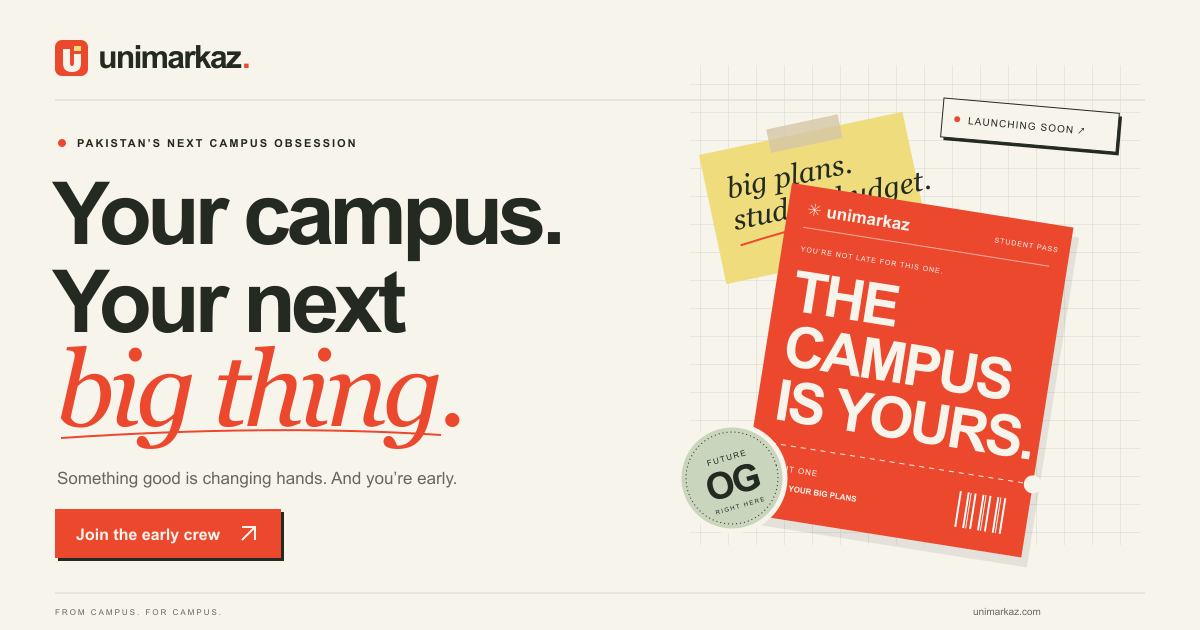
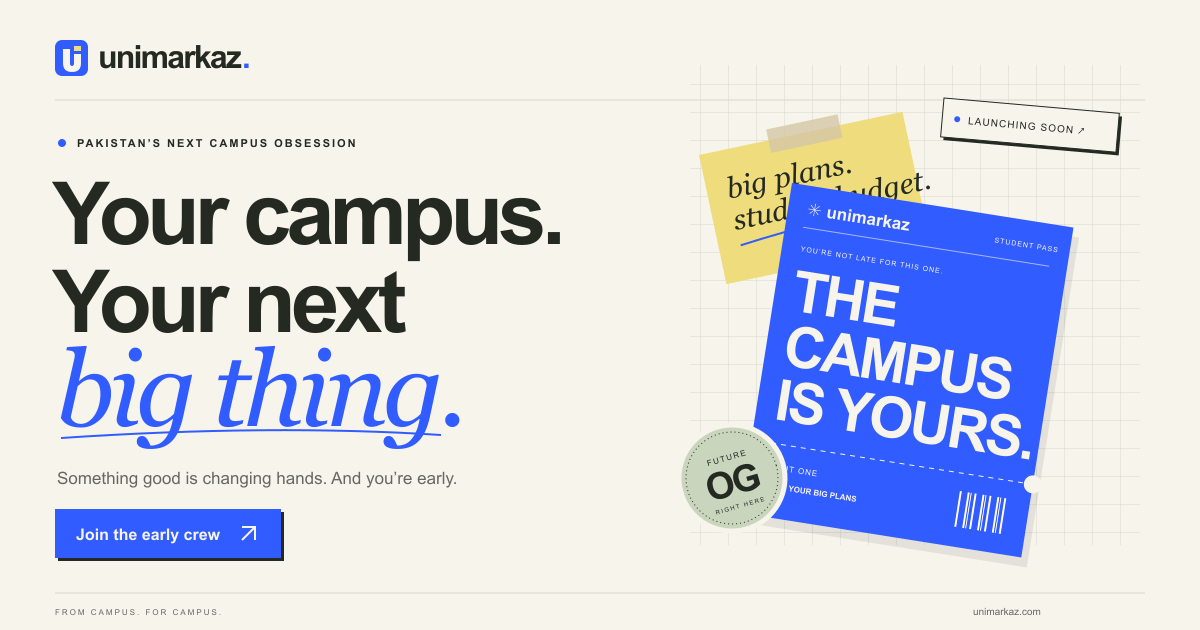
Wording easy for pak no seo

diff --git a/site/src/index.html b/site/src/index.html
@@ -10,9 +10,9 @@
   <meta property="og:type" content="website">
   <meta property="og:site_name" content="unimarkaz">
   <meta property="og:title" content="Your campus. Your next big thing. — unimarkaz">
-  <meta property="og:description" content="Something good is changing hands. Pakistan’s student marketplace is coming. Get in before the group chat finds out.">
+  <meta property="og:description" content="A place for students in Pakistan to buy, sell and find what they need. Join the list for early access.">
   <meta name="twitter:title" content="Your campus. Your next big thing. — unimarkaz">
-  <meta name="twitter:description" content="Big campus energy. Student-budget friendly. Join the unimarkaz early crew.">
+  <meta name="twitter:description" content="A student marketplace is coming to Pakistan. Sign up to hear when you can join.">
   {{CANONICAL}}{{SOCIAL_META}}
   <script type="application/ld+json">{{SCHEMA}}</script>
   <link rel="icon" type="image/svg+xml" href="/assets/favicon.svg">
@@ -32,18 +32,18 @@
   </svg>
   <header class="site-header wrap">
     <a class="wordmark" href="#top" aria-label="unimarkaz home"><span class="brand-icon" aria-hidden="true">u<span></span></span>unimarkaz<span class="brand-period">.</span></a>
-    <span class="header-note">LESS SCROLLING. MORE CAMPUS.</span>
-    <nav aria-label="Main navigation"><a class="nav-why" href="#why-early">Why get in early?</a><a class="nav-cta" href="#waitlist">Get early access <svg class="icon" aria-hidden="true"><use href="#i-up-right"/></svg></a></nav>
+    <span class="header-note">MADE FOR STUDENTS IN PAKISTAN.</span>
+    <nav aria-label="Main navigation"><a class="nav-why" href="#why-early">Why join early?</a><a class="nav-cta" href="#waitlist">Get early access <svg class="icon" aria-hidden="true"><use href="#i-up-right"/></svg></a></nav>
   </header>
   <main id="main">
     <section class="hero wrap" aria-labelledby="hero-title">
       <div class="hero-copy">
-        <p class="eyebrow hero-eyebrow"><span class="status-dot" aria-hidden="true"></span> PAKISTAN’S NEXT CAMPUS OBSESSION</p>
+        <p class="eyebrow hero-eyebrow"><span class="status-dot" aria-hidden="true"></span> PAKISTAN’S STUDENT MARKETPLACE</p>
         <h1 id="hero-title">Your campus.<br>Your next<br><em>big thing.</em><svg class="headline-spark" viewBox="0 0 58 62" aria-hidden="true"><path d="m9 33 13-3M28 19l5-15M39 29l15-9M40 40l14 4"/></svg></h1>
-        <p class="hero-description">Something good is changing hands.<br>A new student marketplace is coming. <strong>And you’re early.</strong></p>
+        <p class="hero-description">Buy, sell and find what you need on campus.<br>A place made for students. <strong>Coming soon.</strong></p>
         <div class="signup" id="waitlist">
-          <p class="signup-intro" id="signup-intro">Get in before the group chat finds out.</p>
-          <p id="referral-note" class="referral-note" hidden>Your friend saved you a seat. Make it official.</p>
+          <p class="signup-intro" id="signup-intro">Sign up to hear when you can join.</p>
+          <p id="referral-note" class="referral-note" hidden>A friend invited you. Enter your email to join the list.</p>
           <form id="waitlist-form" action="{{ENDPOINT}}" method="post">
             <input type="hidden" name="access_key" value="{{FORM_KEY}}">
             <input type="hidden" name="subject" value="unimarkaz early access waitlist">
@@ -53,65 +53,65 @@
             <input type="hidden" name="referred_by" value="">
             <input class="honeypot" type="text" name="botcheck" tabindex="-1" autocomplete="off" aria-hidden="true">
             <label class="sr-only" for="email">Your email address</label>
-            <div class="email-row"><input id="email" name="email" type="email" autocomplete="email" inputmode="email" placeholder="Your email goes here" required maxlength="254" aria-describedby="signup-note"><button class="button submit" type="submit"><span>Count me in</span><svg class="icon" aria-hidden="true"><use href="#i-up-right"/></svg></button></div>
+            <div class="email-row"><input id="email" name="email" type="email" autocomplete="email" inputmode="email" placeholder="Your email address" required maxlength="254" aria-describedby="signup-note"><button class="button submit" type="submit"><span>Join the list</span><svg class="icon" aria-hidden="true"><use href="#i-up-right"/></svg></button></div>
             <p id="form-status" role="status" aria-live="polite" tabindex="-1"></p>
-            <p class="signup-note" id="signup-note"><svg class="icon" aria-hidden="true"><use href="#i-check"/></svg> Free to join. No spam. No 8 AM lectures.</p>
-            <noscript><p class="signup-note">You can still join. Your signup opens securely with our form provider.</p></noscript>
+            <p class="signup-note" id="signup-note"><svg class="icon" aria-hidden="true"><use href="#i-check"/></svg> Free to join. We’ll email you when it’s ready.</p>
+            <noscript><p class="signup-note">You can still sign up. Your details will be sent to our signup service.</p></noscript>
           </form>
           <div id="success" class="success" hidden tabindex="-1" role="region" aria-labelledby="success-title">
-            <div class="success-heading"><span class="success-mark" aria-hidden="true">✓</span><div><span class="eyebrow">OFFICIALLY IN THE EARLY CREW</span><h2 id="success-title">You’re on the list. Class move.</h2></div></div>
-            <p>We’ll email when it’s your turn. Bring your friends — their signups help you move up the list.</p>
-            <label for="referral-link" class="share-label">Your personal invite link</label>
+            <div class="success-heading"><span class="success-mark" aria-hidden="true">✓</span><div><span class="eyebrow">THANKS FOR SIGNING UP</span><h2 id="success-title">You’re on the list!</h2></div></div>
+            <p>We’ll email you when you can join. Share your link with friends. Each new signup through it helps you get access sooner.</p>
+            <label for="referral-link" class="share-label">Your link to invite friends</label>
             <div class="share-link-row"><input id="referral-link" type="text" readonly autocomplete="off"><button id="copy-link" type="button" aria-label="Copy your invite link"><svg class="icon" aria-hidden="true"><use href="#i-copy"/></svg><span>Copy</span></button></div>
-            <div class="share-actions"><a id="share-whatsapp" class="button whatsapp-button" href="https://wa.me/" target="_blank" rel="noopener noreferrer">Send to the group chat <svg class="icon" aria-hidden="true"><use href="#i-up-right"/></svg></a><button id="native-share" class="share-more" type="button" hidden aria-label="More sharing options"><svg class="icon" aria-hidden="true"><use href="#i-share"/></svg></button></div>
+            <div class="share-actions"><a id="share-whatsapp" class="button whatsapp-button" href="https://wa.me/" target="_blank" rel="noopener noreferrer">Share on WhatsApp <svg class="icon" aria-hidden="true"><use href="#i-up-right"/></svg></a><button id="native-share" class="share-more" type="button" hidden aria-label="More sharing options"><svg class="icon" aria-hidden="true"><use href="#i-share"/></svg></button></div>
             <p id="share-status" class="share-status" role="status" aria-live="polite"></p>
             <button id="another-signup" class="text-button" type="button">Use another email</button>
           </div>
         </div>
-        <div class="social-proof"><div class="proof-avatars" aria-hidden="true"><span class="avatar avatar-one">☺</span><span class="avatar avatar-two">✳</span><span class="avatar avatar-three">ツ</span><span class="avatar avatar-four">↗</span></div><p><strong><span data-count="{{COUNT}}">{{COUNT}}</span> students</strong> already called dibs.<br><span>Different campuses. Same main-character energy.</span></p></div>
+        <div class="social-proof"><div class="proof-avatars" aria-hidden="true"><span class="avatar avatar-one">☺</span><span class="avatar avatar-two">✳</span><span class="avatar avatar-three">ツ</span><span class="avatar avatar-four">↗</span></div><p><strong><span data-count="{{COUNT}}">{{COUNT}}</span> students</strong> have already signed up.<br><span>Join students from across Pakistan.</span></p></div>
       </div>
-      <div class="campus-board" role="img" aria-label="A campus noticeboard collage: an early access student pass, a handwritten note saying big plans, student budget, a chai cup, and an OG crew sticker.">
+      <div class="campus-board" role="img" aria-label="A campus noticeboard collage: an early access student pass, a handwritten note saying big plans, student budget, a chai cup, and an early signup sticker.">
         <div class="board-grid"></div>
-        <span class="board-label">PINNED TO YOUR NEXT CHAPTER</span>
-        <div class="scribble-note"><span class="tape"></span><span class="handwriting">big plans.<br>student budget.</span><svg viewBox="0 0 130 28"><path d="M4 18Q45 2 125 10M14 25Q57 14 115 17"/></svg><span class="note-caption">you get it. we get it.</span></div>
+        <span class="board-label">COMING SOON TO CAMPUS</span>
+        <div class="scribble-note"><span class="tape"></span><span class="handwriting">big plans.<br>student budget.</span><svg viewBox="0 0 130 28"><path d="M4 18Q45 2 125 10M14 25Q57 14 115 17"/></svg><span class="note-caption">made for student life.</span></div>
         <div class="access-pass">
           <div class="pass-top"><span><span class="tiny-star">✳</span> unimarkaz</span><span>STUDENT PASS</span></div>
-          <div class="pass-body"><span class="pass-kicker">YOU’RE NOT LATE FOR THIS ONE.</span><strong>THE<br>CAMPUS<br>IS YOURS<span>.</span></strong><div class="pass-circle"><span>FIRST<br>WAVE<br><b>↗</b></span></div></div>
+          <div class="pass-body"><span class="pass-kicker">BE ONE OF THE FIRST TO JOIN.</span><strong>THE<br>CAMPUS<br>IS YOURS<span>.</span></strong><div class="pass-circle"><span>JOIN<br>EARLY<br><b>↗</b></span></div></div>
           <div class="pass-tear"></div>
-          <div class="pass-bottom"><div><span>ADMIT ONE</span><strong>YOU + YOUR BIG PLANS</strong></div><div class="barcode"></div><span class="pass-number">UM / 001</span></div>
+          <div class="pass-bottom"><div><span>YOUR INVITE</span><strong>YOU + YOUR BIG PLANS</strong></div><div class="barcode"></div><span class="pass-number">UM / 001</span></div>
         </div>
-        <div class="og-sticker"><svg viewBox="0 0 120 120"><path d="m60 2 10 9 13-3 7 12 13 3 2 14 11 8-5 13 5 13-11 8-2 14-13 3-7 12-13-3-10 9-10-9-13 3-7-12-13-3-2-14L4 71l5-13-5-13 11-8 2-14 13-3 7-12 13 3Z"/></svg><span>FUTURE<br><strong>OG</strong><br>RIGHT HERE</span></div>
-        <svg class="chai-doodle" viewBox="0 0 170 180"><g fill="none" stroke="currentColor" stroke-width="3.2" stroke-linecap="round" stroke-linejoin="round"><path d="M48 38q-10-13 2-24M74 36q13-13 0-28M97 39q-8-9 0-18M26 61q53-20 105 0l-12 59q-35 23-80 0Z"/><ellipse cx="78" cy="61" rx="52" ry="12"/><path d="M132 68q36-6 23 26-8 13-30 12M22 133q56 26 115 0M37 143q40 18 87 0M60 91q5 9 10 0M92 91q5 9 10 0M73 104q6 6 13 0"/></g><text x="28" y="174" fill="currentColor" font-size="16" font-family="Georgia,serif" font-style="italic">chai’s on the agenda.</text></svg>
+        <div class="og-sticker"><svg viewBox="0 0 120 120"><path d="m60 2 10 9 13-3 7 12 13 3 2 14 11 8-5 13 5 13-11 8-2 14-13 3-7 12-13-3-10 9-10-9-13 3-7-12-13-3-2-14L4 71l5-13-5-13 11-8 2-14 13-3 7-12 13 3Z"/></svg><span>YOU’RE<br><strong>IN</strong><br>EARLY</span></div>
+        <svg class="chai-doodle" viewBox="0 0 170 180"><g fill="none" stroke="currentColor" stroke-width="3.2" stroke-linecap="round" stroke-linejoin="round"><path d="M48 38q-10-13 2-24M74 36q13-13 0-28M97 39q-8-9 0-18M26 61q53-20 105 0l-12 59q-35 23-80 0Z"/><ellipse cx="78" cy="61" rx="52" ry="12"/><path d="M132 68q36-6 23 26-8 13-30 12M22 133q56 26 115 0M37 143q40 18 87 0M60 91q5 9 10 0M92 91q5 9 10 0M73 104q6 6 13 0"/></g><text x="28" y="174" fill="currentColor" font-size="16" font-family="Georgia,serif" font-style="italic">time for chai.</text></svg>
         <div class="launch-sticker"><span class="status-dot"></span> LAUNCHING SOON <svg class="icon"><use href="#i-up-right"/></svg></div>
         <svg class="board-arrow" viewBox="0 0 160 90"><path d="M149 10c-4 60-80 73-130 40m8 24L15 47l30-4"/></svg>
-        <span class="board-footer">GOOD THINGS DON’T STAY SECRET FOR LONG.</span>
+        <span class="board-footer">A NEW PLACE FOR STUDENTS TO CONNECT.</span>
         <svg class="board-star" aria-hidden="true"><use href="#i-star"/></svg>
       </div>
     </section>
-    <div class="campus-ribbon" aria-label="Built for students, from Lahore to Karachi and every campus in between"><div class="ribbon-inner"><span>STUDENT LIFE, UPGRADED</span><span aria-hidden="true">✳</span><span>LAHORE TO KARACHI</span><span aria-hidden="true">✳</span><span>AND YOUR CAMPUS, TOO</span><span aria-hidden="true">✳</span><span>BIG PLANS. SMALL BUDGETS.</span><span aria-hidden="true">✳</span><span>STUDENT LIFE, UPGRADED</span><span aria-hidden="true">✳</span></div></div>
+    <div class="campus-ribbon" aria-label="Built for students, from Lahore to Karachi and every campus in between"><div class="ribbon-inner"><span>MADE FOR STUDENT LIFE</span><span aria-hidden="true">✳</span><span>LAHORE TO KARACHI</span><span aria-hidden="true">✳</span><span>AND YOUR CAMPUS, TOO</span><span aria-hidden="true">✳</span><span>BIG PLANS. SMALL BUDGETS.</span><span aria-hidden="true">✳</span><span>MADE FOR STUDENT LIFE</span><span aria-hidden="true">✳</span></div></div>
     <section class="teaser wrap" id="the-idea" aria-labelledby="teaser-title">
-      <div class="section-index"><span>01 / A LITTLE HINT</span><svg class="icon" aria-hidden="true"><use href="#i-up-right"/></svg></div>
-      <div class="teaser-content"><h2 id="teaser-title">Someone on campus has<br><em>just what you need.</em></h2><div class="teaser-bottom"><p>And you probably have something they need, too.<br>We’re making those connections happen.<br>The rest? A little suspense builds character.</p><span class="handwritten-aside">less “anyone got…?”<br>more “sorted.”<svg viewBox="0 0 95 45" aria-hidden="true"><path d="M5 7q18 35 77 20m-10-9 15 8-10 13"/></svg></span></div></div>
+      <div class="section-index"><span>01 / THE IDEA</span><svg class="icon" aria-hidden="true"><use href="#i-up-right"/></svg></div>
+      <div class="teaser-content"><h2 id="teaser-title">Someone on campus has<br><em>just what you need.</em></h2><div class="teaser-bottom"><p>Find things you need. Offer what you have.<br>Connect with students around you.<br>We’ll share more when we launch.</p><span class="handwritten-aside">find what you need.<br>right on campus.<svg viewBox="0 0 95 45" aria-hidden="true"><path d="M5 7q18 35 77 20m-10-9 15 8-10 13"/></svg></span></div></div>
     </section>
     <section class="perks wrap" id="why-early" aria-labelledby="perks-title">
-      <div class="perks-heading"><div><p class="eyebrow">EARLY IS A GOOD LOOK ON YOU</p><h2 id="perks-title">Attendance has <em>its perks.</em></h2></div><span class="perks-note">This one’s actually worth showing up for.</span></div>
+      <div class="perks-heading"><div><p class="eyebrow">JOIN BEFORE WE LAUNCH</p><h2 id="perks-title">Why join <em>early?</em></h2></div><span class="perks-note">Here’s what you get when you sign up.</span></div>
       <div class="perks-grid">
-        <article class="perk"><div class="perk-top"><span class="perk-number">01</span><svg class="perk-doodle door-doodle" viewBox="0 0 80 76" aria-hidden="true"><path d="M18 65V12h44v53M18 12 47 5v60H18M39 36v8M5 65h68M57 36h19m-7-7 7 7-7 7"/></svg></div><h3>First through the door.</h3><p>The early crew gets invited before the public launch. Your next great campus find starts here.</p><span class="perk-tag">FIRST ACCESS</span></article>
-        <article class="perk"><div class="perk-top"><span class="perk-number">02</span><svg class="perk-doodle badge-doodle" viewBox="0 0 80 76" aria-hidden="true"><path d="m40 4 8 7 11-1 3 11 9 6-4 11 1 11-11 3-7 9-10-4-10 4-7-9-11-3 1-11-4-11 9-6 3-11 11 1ZM24 53l-5 20 13-5 7 6 5-16m9-3 8 18-12-3"/><path d="m40 17 4 10 11 1-9 7 3 11-9-6-9 6 3-11-9-7 11-1Z"/></svg></div><h3>“I was here first.”</h3><p>A founding-member badge when we launch. A little proof you knew what was up before everyone else.</p><span class="perk-tag">OG STATUS, EARNED</span></article>
-        <article class="perk"><div class="perk-top"><span class="perk-number">03</span><svg class="perk-doodle friends-doodle" viewBox="0 0 80 76" aria-hidden="true"><circle cx="27" cy="22" r="11"/><circle cx="56" cy="24" r="10"/><path d="M8 65V51q0-16 19-16t19 16v14M49 39q22-4 22 15v11M20 54h15m-7-7 7 7-7 7M51 57h12"/></svg></div><h3>Good things + your gang.</h3><p>Get your own invite link. Friends who join through it help move you up the early-access list.</p><span class="perk-tag">BRING THE GROUP CHAT</span></article>
+        <article class="perk"><div class="perk-top"><span class="perk-number">01</span><svg class="perk-doodle door-doodle" viewBox="0 0 80 76" aria-hidden="true"><path d="M18 65V12h44v53M18 12 47 5v60H18M39 36v8M5 65h68M57 36h19m-7-7 7 7-7 7"/></svg></div><h3>Get early access.</h3><p>Sign up now to get an invite before we open to everyone. We’ll email you when you can join.</p><span class="perk-tag">EARLY ACCESS</span></article>
+        <article class="perk"><div class="perk-top"><span class="perk-number">02</span><svg class="perk-doodle badge-doodle" viewBox="0 0 80 76" aria-hidden="true"><path d="m40 4 8 7 11-1 3 11 9 6-4 11 1 11-11 3-7 9-10-4-10 4-7-9-11-3 1-11-4-11 9-6 3-11 11 1ZM24 53l-5 20 13-5 7 6 5-16m9-3 8 18-12-3"/><path d="m40 17 4 10 11 1-9 7 3 11-9-6-9 6 3-11-9-7 11-1Z"/></svg></div><h3>An early member badge.</h3><p>Get a badge when we launch to show you were one of the first students to sign up.</p><span class="perk-tag">EARLY MEMBER BADGE</span></article>
+        <article class="perk"><div class="perk-top"><span class="perk-number">03</span><svg class="perk-doodle friends-doodle" viewBox="0 0 80 76" aria-hidden="true"><circle cx="27" cy="22" r="11"/><circle cx="56" cy="24" r="10"/><path d="M8 65V51q0-16 19-16t19 16v14M49 39q22-4 22 15v11M20 54h15m-7-7 7 7-7 7M51 57h12"/></svg></div><h3>Invite your friends.</h3><p>Share your invite link with friends. When they sign up through it, you can get access sooner.</p><span class="perk-tag">SHARE YOUR INVITE</span></article>
       </div>
-      <p class="perks-footnote">One email gets you in. A little campus influence gets you further.</p>
+      <p class="perks-footnote">Sign up with your email. Invite friends to move up the list.</p>
     </section>
-    <section class="final-call wrap" id="final-call" aria-labelledby="final-title"><div class="final-panel"><span class="final-topline">CONSIDER THIS YOUR UNOFFICIAL INVITATION.</span><div class="final-main"><div><h2 id="final-title">Don’t be the<br><em>“wait, what did I miss?”</em> friend.</h2><p>The group chat will hear about it. You could hear first.</p><a class="button cream-button" href="#waitlist">Save my spot — it’s free <svg class="icon" aria-hidden="true"><use href="#i-up-right"/></svg></a></div><div class="final-stamp" aria-hidden="true"><span>NO FOMO</span><svg viewBox="0 0 100 75"><path d="M28 17v12m43-12v12M18 44q33 36 65-2"/></svg><span>JUST GOOD TIMING</span></div></div><div class="final-bottom"><span>MADE FOR STUDENTS. BUILT FOR WHAT’S NEXT.</span><span>SEE YOU ON THE INSIDE ↗</span></div></div></section>
-    <section class="faq wrap" aria-labelledby="faq-title"><div class="faq-heading"><p class="eyebrow">THE SMALL PRINT, BUT READABLE</p><h2 id="faq-title">Good questions.</h2><p>We figured you’d have a few.</p></div><div class="faq-list">
-      <details><summary>Okay, but what actually is unimarkaz?<span aria-hidden="true">+</span></summary><p>A marketplace made for student life in Pakistan. Think what you have, what you need, and the people around your campus. We’re keeping the full reveal for launch. A little mystery never hurt anyone.</p></details>
-      <details><summary>Is my university invited?<span aria-hidden="true">+</span></summary><p>Yes. University and college students across Pakistan are welcome on the waitlist. Big city, smaller campus, hostel or home — you belong here. We’ll share campus availability as we roll out.</p></details>
-      <details><summary>When’s the big reveal?<span aria-hidden="true">+</span></summary><p>Launching soon. We’re getting things ready and will invite the early crew before the public launch. Leave your email and you’ll hear from us when access is ready. No made-up countdowns. We’ve had enough deadline anxiety.</p></details>
-      <details><summary>How do I move up the list?<span aria-hidden="true">+</span></summary><p>Join, then share your personal invite link. When a new friend signs up through it, we record the referral. We review successful, distinct signups when arranging early-access invites: more genuine referrals mean higher priority. Sharing alone doesn’t move your spot, and we don’t display a live rank.</p></details>
-      <details id="privacy"><summary>What happens to my email?<span aria-hidden="true">+</span></summary><p>We use it for unimarkaz early-access and launch updates. SplitForms processes your signup, including your invite code and a friend’s code if you arrived through their link. We don’t store your email in this browser or use advertising trackers. Reply to any update to leave the list.</p></details>
+    <section class="final-call wrap" id="final-call" aria-labelledby="final-title"><div class="final-panel"><span class="final-topline">YOU’RE INVITED TO JOIN US.</span><div class="final-main"><div><h2 id="final-title">Be first to<br><em>hear what’s next.</em> Join us.</h2><p>Leave your email. We’ll let you know when you can join.</p><a class="button cream-button" href="#waitlist">Join the list — it’s free <svg class="icon" aria-hidden="true"><use href="#i-up-right"/></svg></a></div><div class="final-stamp" aria-hidden="true"><span>JOIN EARLY</span><svg viewBox="0 0 100 75"><path d="M28 17v12m43-12v12M18 44q33 36 65-2"/></svg><span>IT’S FREE</span></div></div><div class="final-bottom"><span>MADE FOR STUDENTS. COMING SOON.</span><span>SEE YOU SOON ↗</span></div></div></section>
+    <section class="faq wrap" aria-labelledby="faq-title"><div class="faq-heading"><p class="eyebrow">HAVE A QUESTION?</p><h2 id="faq-title">Common questions.</h2><p>Here’s what you need to know.</p></div><div class="faq-list">
+      <details><summary>What is unimarkaz?<span aria-hidden="true">+</span></summary><p>unimarkaz is a place for students in Pakistan to buy, sell and find what they need from other students. We’re getting ready to launch and will share more details soon.</p></details>
+      <details><summary>Can students from my university join?<span aria-hidden="true">+</span></summary><p>Yes. University and college students anywhere in Pakistan can sign up. We’ll let you know which campuses can use unimarkaz as we launch.</p></details>
+      <details><summary>When will unimarkaz launch?<span aria-hidden="true">+</span></summary><p>We’re launching soon, but haven’t set a date yet. Students on the list will get invites before we open to everyone. Sign up and we’ll email you when you can join.</p></details>
+      <details><summary>How do I move up the list?<span aria-hidden="true">+</span></summary><p>Sign up, then share your invite link. Each new friend who signs up through it can help you get an earlier invite. We check signups before sending invites and count each person’s email only once. Sharing a link without new signups won’t move you up. Your position on the list isn’t shown here.</p></details>
+      <details id="privacy"><summary>What happens to my email?<span aria-hidden="true">+</span></summary><p>We use your email to send you an invite and news about the launch. SplitForms, our signup service, receives your email and invite code. If a friend invited you, we also send their code to count the invite. We don’t save your email in this browser or track you for ads. Reply to any update to leave the list.</p></details>
     </div></section>
   </main>
-  <footer class="site-footer wrap"><div class="footer-main"><a class="wordmark" href="#top" aria-label="unimarkaz home"><span class="brand-icon" aria-hidden="true">u<span></span></span>unimarkaz<span class="brand-period">.</span></a><span class="footer-note">From campus. For campus. <span aria-hidden="true">♡</span></span><a href="#privacy">Your privacy matters <svg class="icon" aria-hidden="true"><use href="#i-up-right"/></svg></a></div><div class="footer-bottom"><span>© 2026 unimarkaz. All campus energy reserved.</span><span>MADE WITH CHAI & BIG PLANS IN PAKISTAN.</span></div></footer>
-  <div class="mobile-cta" hidden><div><strong>Your next big thing.</strong><span>Be early. It’s free.</span></div><a class="button" href="#waitlist">Count me in <svg class="icon" aria-hidden="true"><use href="#i-up-right"/></svg></a></div>
+  <footer class="site-footer wrap"><div class="footer-main"><a class="wordmark" href="#top" aria-label="unimarkaz home"><span class="brand-icon" aria-hidden="true">u<span></span></span>unimarkaz<span class="brand-period">.</span></a><span class="footer-note">From campus. For campus. <span aria-hidden="true">♡</span></span><a href="#privacy">Your privacy matters <svg class="icon" aria-hidden="true"><use href="#i-up-right"/></svg></a></div><div class="footer-bottom"><span>© 2026 unimarkaz. All rights reserved.</span><span>MADE WITH CHAI & BIG PLANS IN PAKISTAN.</span></div></footer>
+  <div class="mobile-cta" hidden><div><strong>Join before we launch.</strong><span>Sign up for free.</span></div><a class="button" href="#waitlist">Join the list <svg class="icon" aria-hidden="true"><use href="#i-up-right"/></svg></a></div>
 </body>
 </html>

diff --git a/site/src/style.css b/site/src/style.css
@@ -46,3 +46,7 @@ html{scroll-padding-top:24px;overflow-x:hidden}body{background:var(--paper);colo
 @media(max-width:370px){.wrap{width:calc(100% - 32px)}.site-header{height:73px}.wordmark{font-size:23px}.brand-icon{width:26px;height:28px;font-size:27px;margin-right:6px}.nav-cta{font-size:9px;padding-inline:9px;gap:7px}.hero{padding-top:29px}.hero-eyebrow{font-size:6.5px;letter-spacing:.9px}h1{font-size:16vw;letter-spacing:-3.6px}h1 em{letter-spacing:-3.4px}.headline-spark{width:29px;height:32px}.hero-description{font-size:11px}.submit{font-size:10px;gap:8px;padding-inline:10px}#email{padding-inline:7px}#email::placeholder{font-size:10px}.signup-intro{font-size:10px}.signup-note{font-size:8px}.social-proof{gap:9px}.social-proof p{font-size:9px}.social-proof p>span{font-size:7px}.avatar{width:26px;height:26px}.campus-board{width:288px;height:448px}.access-pass{width:232px;left:36px;top:101px}.pass-body>strong{font-size:45px}.pass-top{margin-inline:13px}.pass-top>span:first-child{font-size:12px}.pass-top>span:last-child{font-size:5px;letter-spacing:.5px}.pass-kicker{font-size:4.7px}.pass-body{padding-inline:15px}.pass-bottom{padding-inline:13px;gap:7px}.pass-bottom strong{font-size:5px}.barcode{width:42px;height:26px}.pass-circle{right:-14px;width:48px;height:48px}.pass-circle>span{font-size:5px}.scribble-note{width:158px;height:128px;left:5px;padding-top:20px}.handwriting{font-size:21px}.note-caption{font-size:5.5px}.launch-sticker{padding:10px;font-size:5px;right:1px;top:31px}.og-sticker{width:87px;height:87px;top:299px;left:-2px}.og-sticker strong{font-size:30px}.og-sticker>span{font-size:5px}.chai-doodle{width:86px;height:104px;bottom:14px;right:-2px}.board-star{top:199px;right:-2px;width:22px;height:22px}.board-arrow{left:73px;width:89px;height:57px;bottom:19px}.board-footer{font-size:4.8px;left:30px}.board-label{font-size:5px}.teaser h2{font-size:28px}.teaser-bottom>p{font-size:10px}.perk,.perk:first-child,.perk:last-child{padding-left:27px;padding-right:66px}.perk h3{font-size:17px}.perk p{font-size:10px}.perk-doodle{width:46px;height:44px;right:0}.perks-heading h2{font-size:29px}.final-panel{padding-inline:19px}.final-main h2{font-size:29px}.final-topline{font-size:5px}.footer-main>a:last-child{font-size:7px;gap:4px}.site-footer .wordmark{font-size:22px}.mobile-cta{padding-inline:16px}.mobile-cta strong{font-size:10px}.mobile-cta .button{font-size:10px;padding-inline:13px}.success h2{font-size:18px}}
 @media(prefers-reduced-motion:reduce){.access-pass{animation:none;transform:rotate(9deg)}html{scroll-behavior:auto}*,*::before,*::after{transition:none!important}.floating-card{animation:none!important}}
 @media(forced-colors:active){.button,.avatar,.access-pass,.perk-tag,.success{border:1px solid ButtonText}.status-dot{background:Highlight}.brand-icon{border:1px solid ButtonText}.icon{stroke:ButtonText}}
+
+/* Final approved palette: cobalt, navy, cream, sage and butter yellow. */
+:root{--paper:#f7f4ec;--ink:#18233b;--purple:#315cff;--purple-dark:#2445c7;--orange:#315cff;--red:#315cff;--red-bright:#315cff;--red-dark:#2445c7;--muted:#5f687c;--line:#d8dbe4;--yellow:#efdc7c;--sage:#c9d5bd}
+.status-dot{background:#315cff;box-shadow:0 0 0 4px #315cff10}.avatar-four{background:#afc0ff}.access-pass{border-color:#315cff}.perk:nth-child(2) .perk-tag{background:#dfe5ff}

diff --git a/site/src/app.js b/site/src/app.js
@@ -53,11 +53,11 @@ function revealShareOptions() {
   if (copyLink) copyLink.querySelector('span').textContent = 'Copy link';
   if (shareStatus) shareStatus.textContent = '';
   if (shareWhatsapp) {
-    shareWhatsapp.href = `https://wa.me/?text=${encodeURIComponent(`Your campus group needs this. 👀 unimarkaz is a student marketplace launching soon. Get on the list: ${confirmedShareUrl}`)}`;
+    shareWhatsapp.href = `https://wa.me/?text=${encodeURIComponent(`unimarkaz is a place for students to buy, sell and find what they need. It’s launching soon. Join the list: ${confirmedShareUrl}`)}`;
   }
   if (nativeShare) nativeShare.hidden = typeof navigator.share !== 'function';
   if (shareStatus && !referralCode) {
-    shareStatus.textContent = 'Share this page with your campus group. Personal invite links need a newer browser.';
+    shareStatus.textContent = 'You can share this page. To get your own invite link, sign up using a newer browser.';
   }
 }
 
@@ -67,7 +67,7 @@ copyLink?.addEventListener('click', async () => {
     if (!navigator.clipboard?.writeText) throw new Error('Clipboard unavailable');
     await navigator.clipboard.writeText(confirmedShareUrl);
     copyLink.querySelector('span').textContent = 'Copied!';
-    if (shareStatus) shareStatus.textContent = 'Link copied. Your campus group is waiting.';
+    if (shareStatus) shareStatus.textContent = 'Link copied. Share it with your friends.';
   } catch {
     referralLink?.focus();
     referralLink?.select();
@@ -80,8 +80,8 @@ nativeShare?.addEventListener('click', async () => {
   if (shareStatus) shareStatus.textContent = '';
   try {
     await navigator.share({
-      title: 'unimarkaz — your campus is about to get interesting',
-      text: 'A student marketplace is coming. Get on the list with me. 👀',
+      title: 'unimarkaz — a marketplace for students',
+      text: 'A place for students to buy, sell and find what they need is coming soon. Join the list with me.',
       url: confirmedShareUrl
     });
   } catch (error) {
@@ -210,10 +210,10 @@ form.addEventListener('submit', async event => {
     // No signup details or referral codes are stored in this browser.
   } catch (error) {
     status.textContent = error.name === 'AbortError'
-      ? 'We couldn’t confirm your signup in time. Your email is still here — please try again shortly.'
+      ? 'We couldn’t confirm your signup in time. Please try again. You don’t need to re-enter your email.'
       : error.rateLimited
-        ? 'Please wait a minute, then try again. Your email is still here.'
-        : 'We couldn’t confirm your signup. Your email is still here — please try again.';
+        ? 'Please wait a minute, then try again. You don’t need to re-enter your email.'
+        : 'We couldn’t confirm your signup. Please try again. You don’t need to re-enter your email.';
     status.focus({preventScroll: true});
   } finally {
     clearTimeout(timeout);
